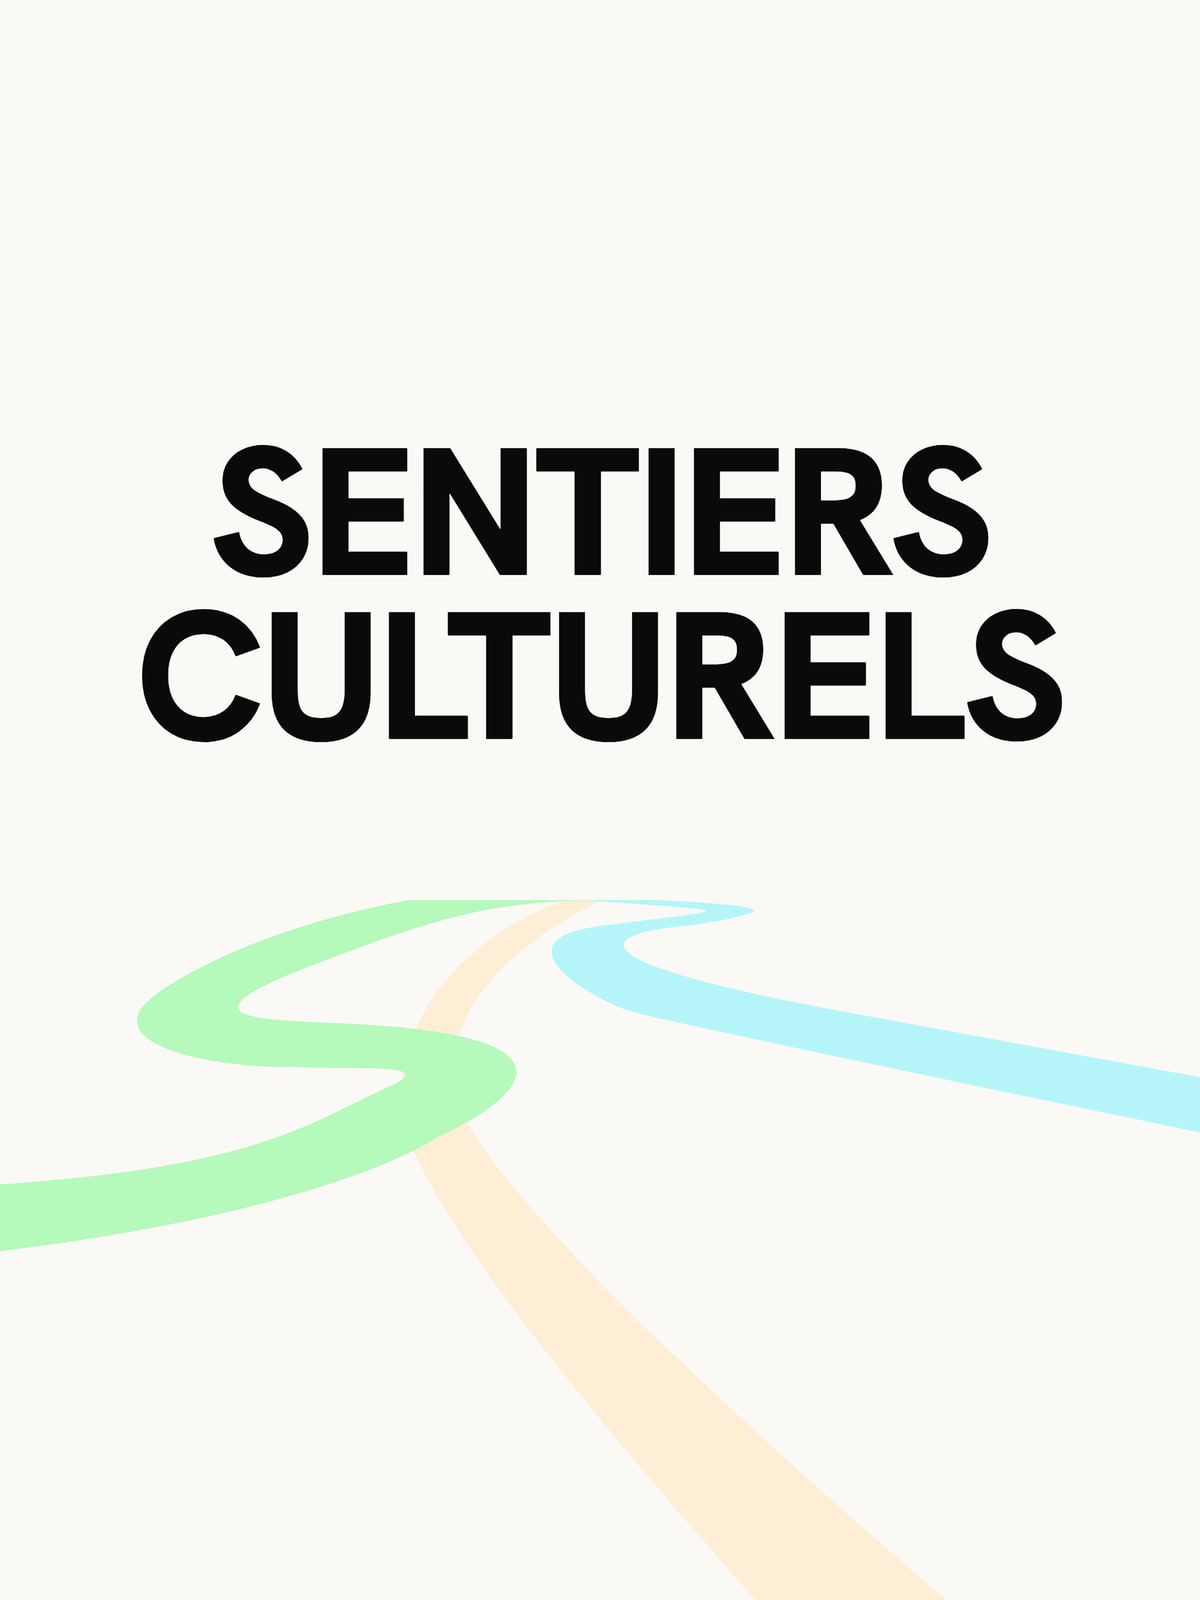
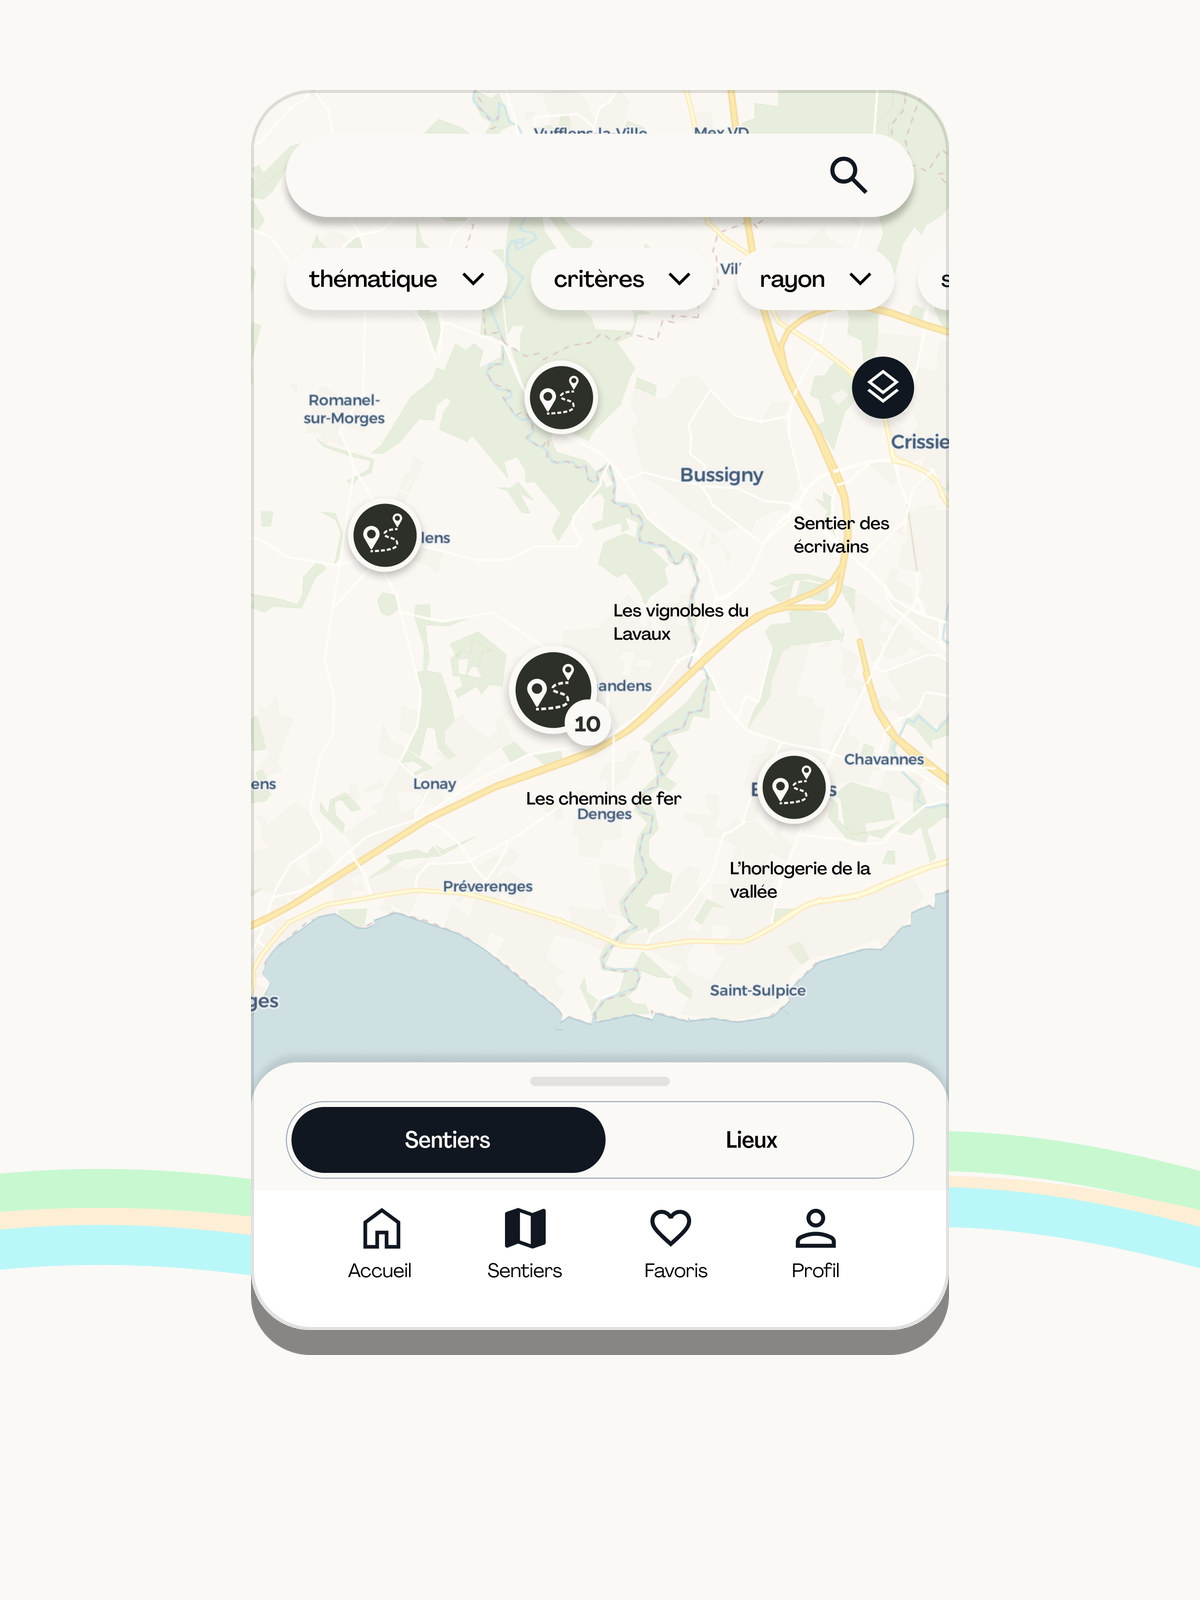
feat(work): show the app on Cultural Trails hero, preview and card
Replace the branded "Sentiers culturels" title card with app-forward
compositions: phone screens (explore map, trail page, in-walk
navigation) standing on the project's green/peach/blue trail ribbon.

- hero.jpg: three screens (trail page, map, navigation)
- adjacent.jpg (next/prev card): map + navigation
- index/cultural-trails.jpg: single explore map, portrait
- update hero, card and Index alt text to describe the screens

diff --git a/app/data/projects.ts b/app/data/projects.ts
@@ -147,6 +147,6 @@ export const projects: readonly IndexRow[] = [
     year: '2024',
     href: '/work/cultural-trails',
     preview: '/images/index/cultural-trails.jpg',
-    alt: 'The Sentiers culturels title card: the project name stacked in heavy black type on a cream ground, above a green, peach and blue ribbon evoking a walking trail.',
+    alt: 'The Sentiers culturels explore map on mobile: trails shown as pins across the Lausanne and Lavaux shore with thématique, critères and rayon filters, standing on the project\'s green, peach and blue trail ribbon.',
   },
 ] as const

diff --git a/content/work/cultural-trails.md b/content/work/cultural-trails.md
@@ -3,7 +3,7 @@ title: "Cultural Trails"
 summary: "A full web application that turns the canton of Vaud's cultural heritage into gamified, accessible walking trails: themed paths, points of interest with audio guides and quizzes, and an editor mode that lets local actors publish their own trails. I was the back-end lead."
 status: "live"
 hero: "/images/work/cultural-trails/hero.jpg"
-heroAlt: "The Sentiers culturels title card: the project name set large in heavy black type on a warm cream ground, above a flowing green, peach and blue ribbon that reads as a winding trail. The project's brand identity."
+heroAlt: "Three screens from the Sentiers culturels app standing on the project's green, peach and blue trail ribbon: a trail page for Les chemins de fer over a photo of Lausanne station, the explore map of trails across the Lausanne and Lavaux shore, and in-walk navigation following a route on a satellite map."
 
 brief:
   role: "Back-end lead"
@@ -227,6 +227,6 @@ resources:
 
 card:
   title: "Cultural Trails — a full-stack heritage walking app"
-  alt: "The Sentiers culturels title card: the project name in heavy black type on a cream ground, above a green, peach and blue ribbon evoking a walking trail."
+  alt: "Two screens from the Sentiers culturels app on the project's green, peach and blue trail ribbon: the explore map of trails across the Lausanne shore, and in-walk navigation following a route on a satellite map."
   image: "/images/work/cultural-trails/adjacent.jpg"
 ---